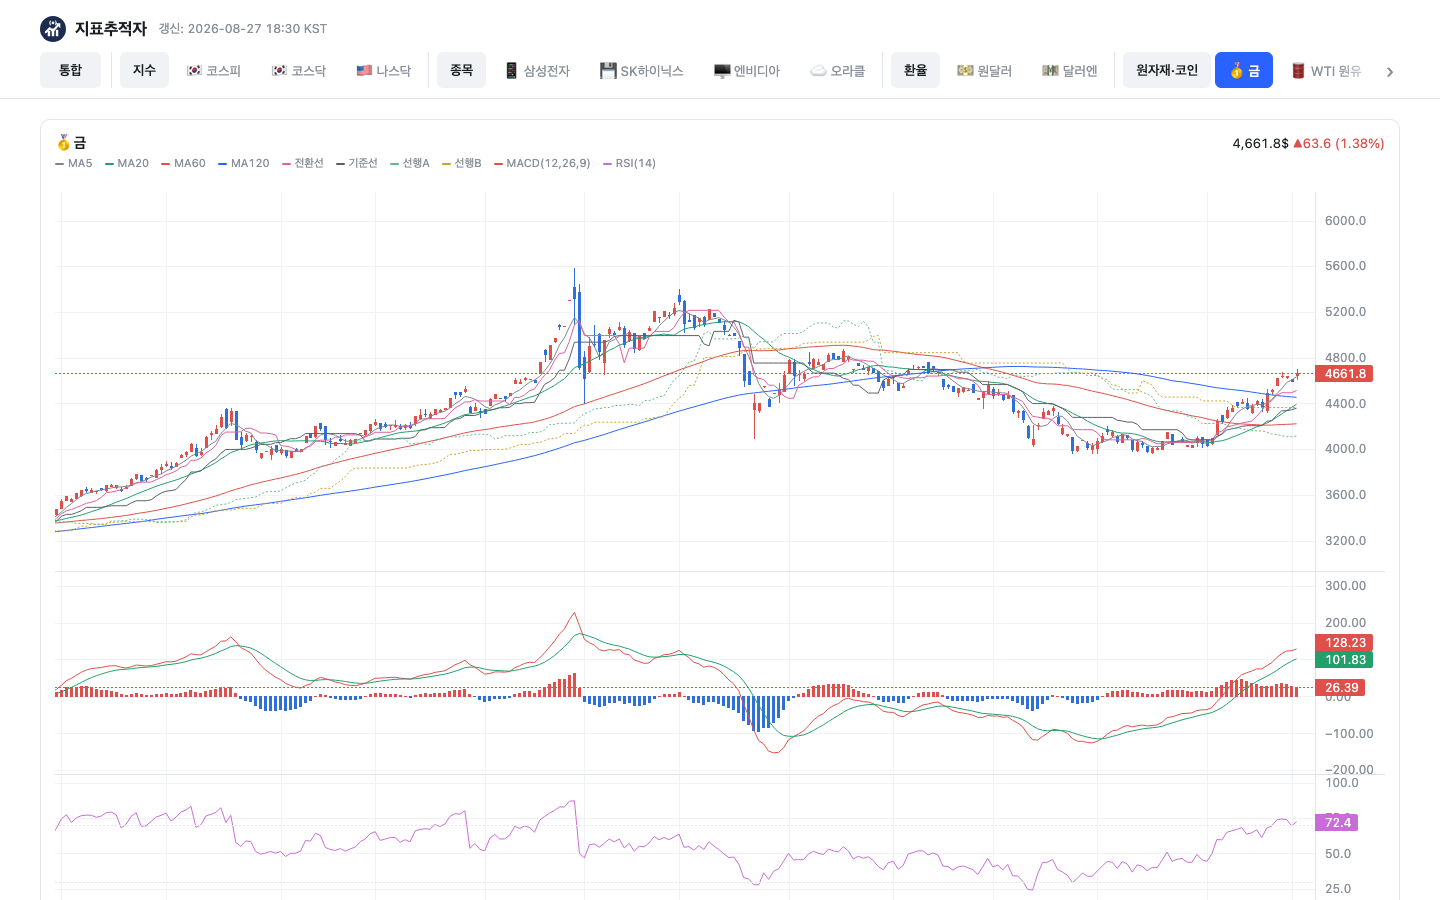
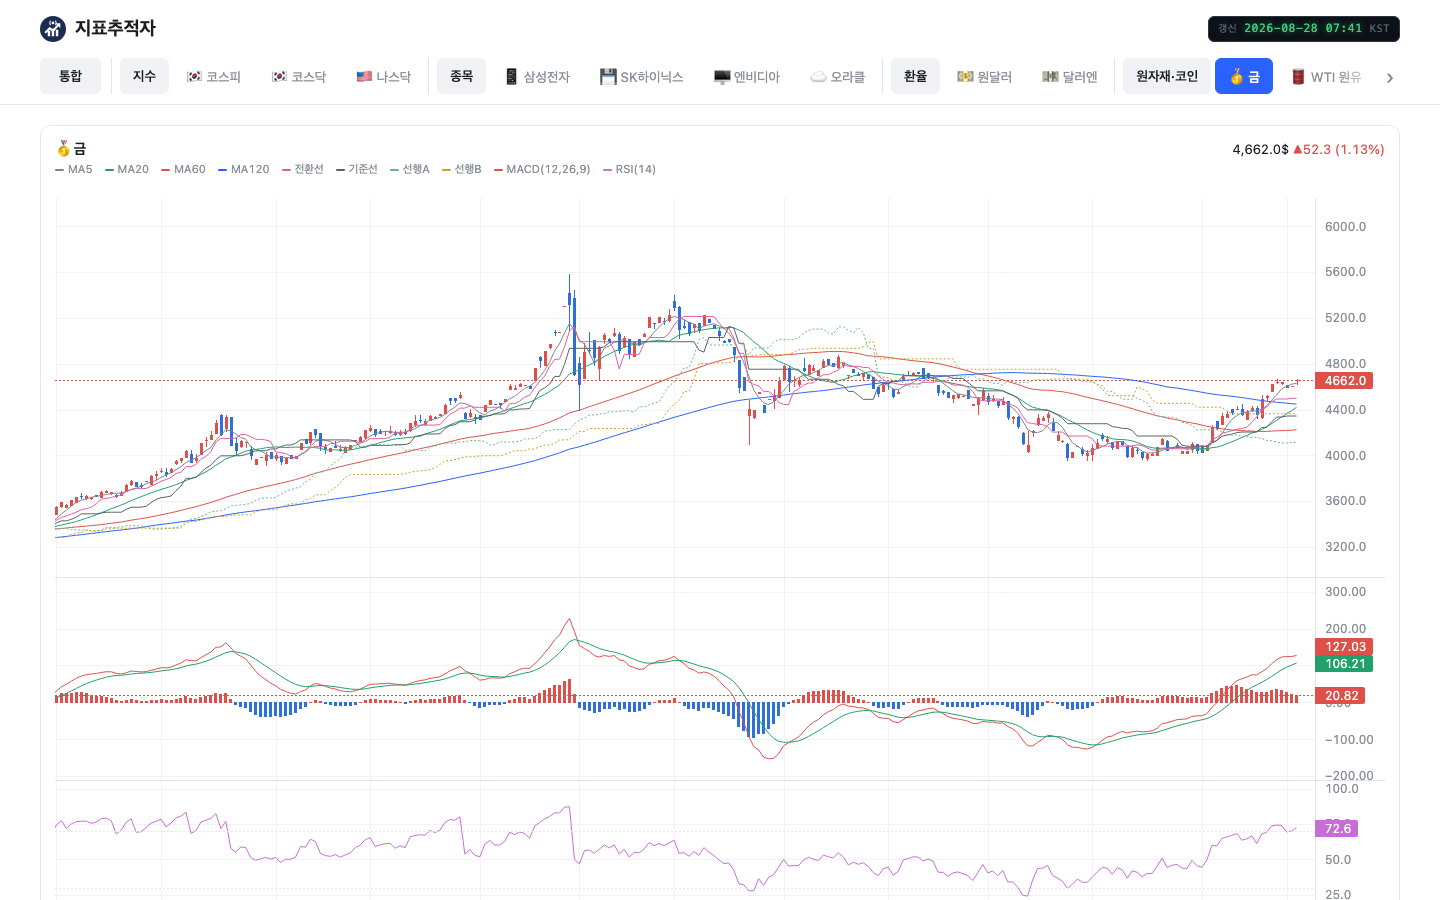
Document the header, the menu sizing, and how the workflow varies by trigger
Refreshes the screenshots for the new header and records what the last few
changes actually did: the gauge-style timestamp, why the hamburger menu
measures visualViewport instead of trusting vh, and the table of what each
workflow trigger collects, sends, and commits.

Also writes down the two traps worth remembering — a push build must not
touch anything outside the repo, and the mobile screenshots need a 390px
iframe because macOS Chrome will not lay out a window that narrow.

Adds a section saying the README is updated in the same commit as the code.

diff --git a/README.md b/README.md
@@ -321,6 +321,7 @@ python build_dashboard.py    # data/*.csv -> docs/data.json
 | `docs/style.css` | 다크/라이트 두 벌 색과 반응형 |
 | `docs/data.json` | `build_dashboard.py`가 만든 데이터 (커밋됨) |
 | `docs/icon.svg` | 파비콘 겸 헤더 로고 |
+| `docs/screenshots/` | 이 문서에 붙는 화면 사진. 화면이 바뀌면 다시 찍는다 |
 
 **보는 방법**
 
@@ -338,10 +339,35 @@ python build_dashboard.py    # data/*.csv -> docs/data.json
 - 넓은 화면: 한 줄에 전부 늘어놓고 좌우로 민다. **통합만 왼쪽에 고정**되고, 그 방향에
   더 있으면 `‹` `›`와 음영이 뜬다(화살표는 눌러서 미는 버튼이기도 하다). 끝에 닿으면
   그쪽 화살표만 사라진다 — 계속 떠 있으면 더 있는 줄 알고 헛되이 민다.
-- 좁은 화면: 오른쪽 **햄버거**로 접고, 가운데에 "무엇을 보는 중"인지 적어 둔다.
-  23개를 어떻게 늘어놓아도 화면 위쪽을 통째로 먹거나 옆으로 숨기 때문이다.
+- 좁은 화면: 오른쪽 **햄버거**로 접고, 왼쪽에 통합 버튼, 가운데에 "무엇을 보는 중"인지
+  적어 둔다. 23개를 어떻게 늘어놓아도 화면 위쪽을 통째로 먹거나 옆으로 숨기 때문이다.
 - 차트 카드는 폭에 따라 한 행에 4장 → 2장 → 1장으로 접힌다(1100px, 760px).
   휴대폰에서는 한 열에 한 장씩 — 두 장만 나란히 놓아도 캔들이 읽히지 않는다.
+
+**햄버거 메뉴 높이** — 열 때 `visualViewport`로 "메뉴 위끝부터 지금 보이는 화면 아래끝까지"를
+재서 `max-height`에 넣는다(`sizePanel`). iOS는 `vh`를 주소창·제어바가 **없을 때** 기준으로
+잡아서, `70vh`로 두면 제어바가 올라와 있을 때 메뉴 아래쪽이 그 밑에 깔려 스크롤을 끝까지
+내려도 손가락이 닿지 않는다. 제어바는 스크롤 중 접혔다 펴지므로 열려 있는 동안 계속 다시
+잰다. CSS 쪽은 `dvh` 폴백을 두고, 아래 여백에 `env(safe-area-inset-bottom)`을 더해 마지막
+줄이 홈 인디케이터에 걸치지 않게 한다.
+
+**헤더** — 제목 줄 오른쪽 끝에 갱신 시각을 계기판처럼 놓는다. 어두운 칩 안에 고정폭
+숫자를 초록으로 옅게 발광시키고 라벨(`갱신`·`KST`)은 흐리게 눌러 숫자만 도드라지게 했다.
+칩 색은 두 테마에서 같다 — 계기판은 주변이 밝든 어둡든 제 색으로 켜져 있다.
+
+**화면을 고쳤으면 이 문서의 사진도 다시 찍는다.** 로컬 서버를 띄우고 헤드리스 크롬으로
+`docs/screenshots/`에 덮어쓴다.
+
+```bash
+python -m http.server 8420 --directory docs &
+CHROME="/Applications/Google Chrome.app/Contents/MacOS/Google Chrome"
+"$CHROME" --headless --disable-gpu --hide-scrollbars --virtual-time-budget=7000 \
+  --screenshot=docs/screenshots/desktop-overview.png --window-size=1440,1000 http://localhost:8420/
+```
+
+휴대폰 화면은 `--window-size=390`으로 찍히지 않는다 — macOS 크롬은 창 최소 폭이 있어
+레이아웃이 그 폭으로 잡히지 않고 잘린 그림이 나온다. 폭 390px짜리 `<iframe>`을 담은
+임시 페이지를 만들어 그 안에서 렌더한 뒤 찍는다.
 
 **차트 구성 바꾸기** — `docs/app.js`의 `SECTORS` 한 곳만 고치면 된다.
 
@@ -383,17 +409,54 @@ python notify_daily.py
 ```
 
 `collect.py --daily` → `upload_sheets.py --data` 를 순서대로 실행하고, 결과를
-텔레그램 메시지로 보낸다(지수·종목·환율·금리·수급 요약 + 대시보드 링크). 실패하면
-어느 단계에서 어떤 에러였는지를 보낸다.
+텔레그램 메시지로 보낸다. 실패하면 어느 단계에서 어떤 에러였는지를 보낸다.
+
+```
+📊 2026-08-28 시장 브리핑
+
+▶ *지수*
+🇰🇷 KOSPI 6,912.37 (+104.16, +1.53%) 🟢
+...
+▶ *👥 수급(외국인/기관/개인)*
++133,282 / +183,528 / -1,911,575 (백만원)
+
+🔗 자세히보기(웹 페이지)
+https://buly.kr/2JqqPBg
+```
+
+문구는 `BRIEFING_GROUPS`가 정한다. 이모지는 대시보드 카드와 같은 것을 쓰고, 소수 자릿수는
+계열마다 따로 준다 — 원화 종목에 소수점 두 자리는 아무 뜻도 없으면서 여섯 글자를 잡아먹고,
+줄이 폰 화면 폭을 넘으면 뒤의 🟢/🔴만 다음 줄로 떨어져 읽기 사나워진다.
 
 봇 토큰/채팅 ID는 환경변수 `TELEGRAM_BOT_TOKEN`/`TELEGRAM_CHAT_ID` 또는
 `API-KEY.txt`의 `Telegram Bot Token:` / `Telegram Chat ID:` 줄에서 읽는다.
+
+환경변수 두 개로 동작을 줄일 수 있다(Actions가 이걸로 빌드 테스트와 실제 수집을 가른다).
+
+| 변수 | `1`이면 |
+|---|---|
+| `SKIP_KIS` | KIS 계열을 건너뛴다. KIS는 토큰을 새로 받을 때마다 계정으로 알림톡을 보내는데, 러너는 매번 새 환경이라 실행 한 번이 알림 한 통이 된다. WTI는 야후로 대체 |
+| `DRY_RUN` | 텔레그램·구글시트를 건드리지 않고 화면에만 찍는다 |
 
 ## 8. GitHub Actions (서버 없이 매일 자동 실행)
 
 `.github/workflows/daily.yml`이 평일 16:10 KST(07:10 UTC)에
 `notify_daily.py` → `build_dashboard.py`를 실행하고 `data/`, `docs/`를
-커밋·푸시한다. 설정(최초 1회):
+커밋·푸시한다.
+
+세 가지 계기로 도는데 하는 일이 다르다.
+
+| 계기 | KIS 수집 | 텔레그램·시트 | 결과 커밋 |
+|---|---|---|---|
+| `schedule` (평일 16:10) | O | O | O |
+| `workflow_dispatch` (수동) | 입력값 `skip_kis`에 따라 (기본 건너뜀) | O | O |
+| `push` (코드 올릴 때) | X | X (`DRY_RUN`) | X |
+
+`push`는 빌드가 깨지지 않았는지만 보는 것이라 바깥 상태를 하나도 건드리지 않는다.
+수동 실행이 KIS를 기본으로 건너뛰는 것도 같은 이유 — 손으로 여러 번 돌려보는 동안
+알림톡이 그 횟수만큼 오기 때문이다. 예약 실행만 전부 수집한다(하루 한 통은 정상 비용).
+
+설정(최초 1회):
 
 1. **Settings → Secrets and variables → Actions → New repository secret**로 추가:
    - `KIS_APP_KEY`, `KIS_APP_SECRET` — 한국투자증권
@@ -408,3 +471,15 @@ python notify_daily.py
 Actions 실행 중 실패하면(토큰 만료, API 장애 등) `notify_daily.py`가 실패 사유를
 텔레그램으로 보낸다. `data`/`docs` 커밋은 push 권한이 필요하므로 워크플로 상단의
 `permissions: contents: write`를 지우지 말 것.
+
+빌드·커밋 단계는 `if: always()`로 둔다. `collect.py`는 계열을 받는 족족 CSV에 쓰므로,
+구글시트 업로드나 텔레그램 전송이 실패했다고 커밋을 건너뛰면 **그날 받아둔 데이터가
+통째로 버려진다** — 다음 날 `--daily`는 최근 며칠만 보기 때문에 구멍이 남는다.
+푸시는 rebase로 세 번까지 다시 시도한다. 올리는 것이 데이터 파일뿐이라, 사이에 사람이
+push 했다고 실행이 실패할 이유가 없다.
+
+## 9. 문서 유지
+
+**코드를 고치면 이 README도 같은 커밋에서 고친다.** 실행법·지표 목록·대시보드 동작·
+워크플로·텔레그램 문구 중 무엇이든 바뀌면 해당 절을 손본다. 화면이 바뀌었으면
+`docs/screenshots/`도 다시 찍는다(6절 끝의 명령).
